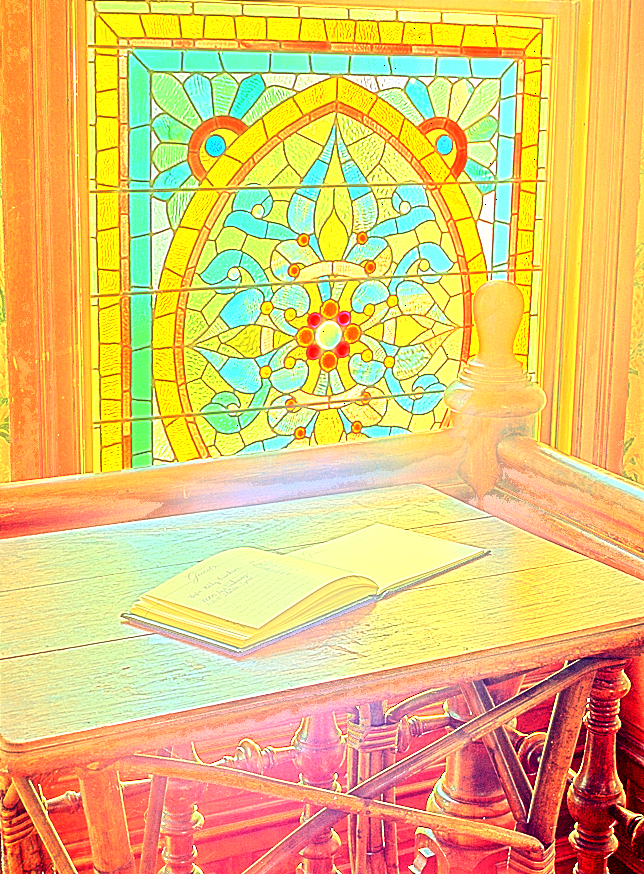
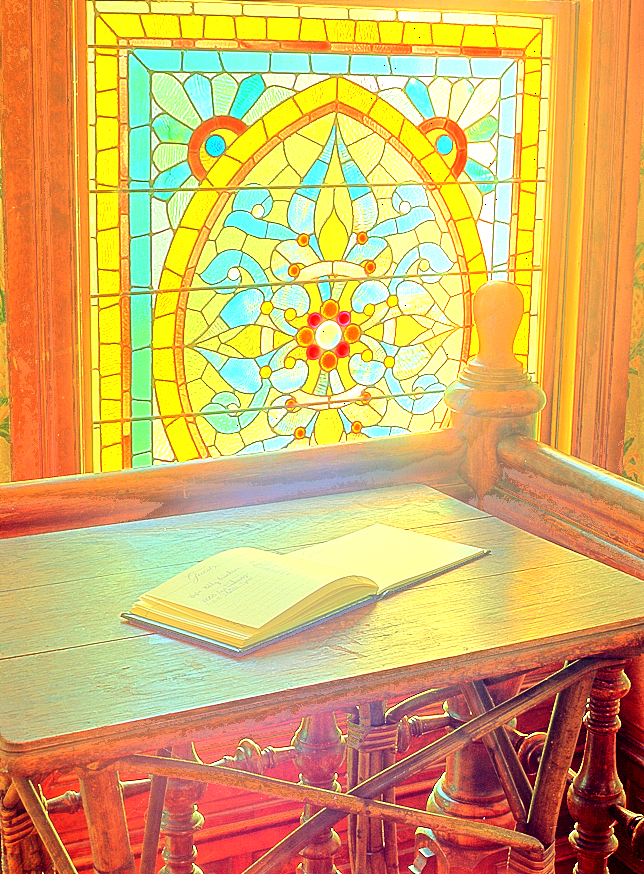
update: fixed spacial kernel

diff --git a/bilateral_filter.cpp b/bilateral_filter.cpp
@@ -83,7 +83,6 @@ const float SIGMA_S = 1.5;
 
 Eigen::MatrixXf custom_bilateral_filter_with_lut(const Eigen::MatrixXf& I) {
     const double SIGMA_R_2 = enforce_q_precision(1 / (2.0 * std::pow(SIGMA_R, 2)), 6, 16);
-    const double SIGMA_S_2 = enforce_q_precision(1 / (2.0 * std::pow(SIGMA_S, 2)), 6, 16);
     std::cout << "start custom bf" << std::endl;
 
     // 1. 初始化
@@ -99,17 +98,14 @@ Eigen::MatrixXf custom_bilateral_filter_with_lut(const Eigen::MatrixXf& I) {
     // 2. 預計算空間核 (Spatial Kernel)
     for (int i = -r; i <= r; ++i) {
         for (int j = -r; j <= r; ++j) {
-            float dist_sq = (float)(i * i + j * j); 
+            int dist_sq = i * i + j * j;
             
-            // 空間核輸入 (除法結果需要鉗位)
-            float exp_input = enforce_q_precision(dist_sq * SIGMA_S_2, 10, 4);
-            
-            // 計算 exp(-x) 並鉗位
-            // float weight = std::exp(-exp_input); 
-            float weight = exp_lut[std::trunc(exp_input * 1024)] / 1024.0;
-            
-            // Eigen 矩陣的元素存取: (行, 列)
-            spatial_kernel_float(i + r, j + r) = enforce_q_precision(weight, 10, 11);
+            if (dist_sq == 0) spatial_kernel_float(i + r, j + r) = (float)1024/1024;
+            else if (dist_sq == 1) spatial_kernel_float(i + r, j + r) = (float)820/1024;
+            else if (dist_sq == 2) spatial_kernel_float(i + r, j + r) = (float)421/1024;
+            else if (dist_sq == 4) spatial_kernel_float(i + r, j + r) = (float)29/1024;
+            else if (dist_sq == 5) spatial_kernel_float(i + r, j + r) = (float)4/1024;
+            else spatial_kernel_float(i + r, j + r) = (float)0;
         }
     }
 
@@ -154,21 +150,23 @@ Eigen::MatrixXf custom_bilateral_filter_with_lut(const Eigen::MatrixXf& I) {
                     float diff = enforce_q_precision(I_p - I_q, 8, 16);
                     float diff_sq = enforce_q_precision(diff * diff, 8, 16);
                     // 範圍核輸入 (除法結果需要鉗位)
-                    float range_exp_input = enforce_q_precision(diff_sq * SIGMA_R_2, 6, 12);
+                    float range_exp_input = enforce_q_precision(diff_sq * SIGMA_R_2, 6, 10);
                     // float range_weight_float = enforce_q_precision(std::exp(-range_exp_input), 6, 7);
                     float range_weight_float = exp_lut[std::trunc(range_exp_input * 64)] / 1024.0;
                     // --- 總權重計算 ---
                     float spatial_weight_float = spatial_kernel_float(m + r, n + r); // Eigen 存取
                     // 總權重 (乘法結果需要鉗位)
-                    float total_weight = enforce_q_precision(spatial_weight_float * range_weight_float, 10, 16);
+                    float total_weight = enforce_q_precision(spatial_weight_float * range_weight_float, 10, 13);
                     // 累積
                     // I_q * total_weight (乘法結果需要鉗位)
                     float weighted_I_q = enforce_q_precision(total_weight * I_q, 8, 16);
                     
-                    denominator_float = enforce_q_precision(denominator_float+total_weight, 8, 16);
-                    numerator_float = enforce_q_precision(numerator_float+weighted_I_q, 8, 16);
+                    denominator_float = denominator_float+total_weight;
+                    numerator_float = numerator_float+weighted_I_q;
                 }
             }
+            denominator_float = enforce_q_precision(denominator_float, 8, 16);
+            numerator_float = enforce_q_precision(numerator_float, 8, 16);
             
             // 3. 歸一化 (除法)
             float B_val;
